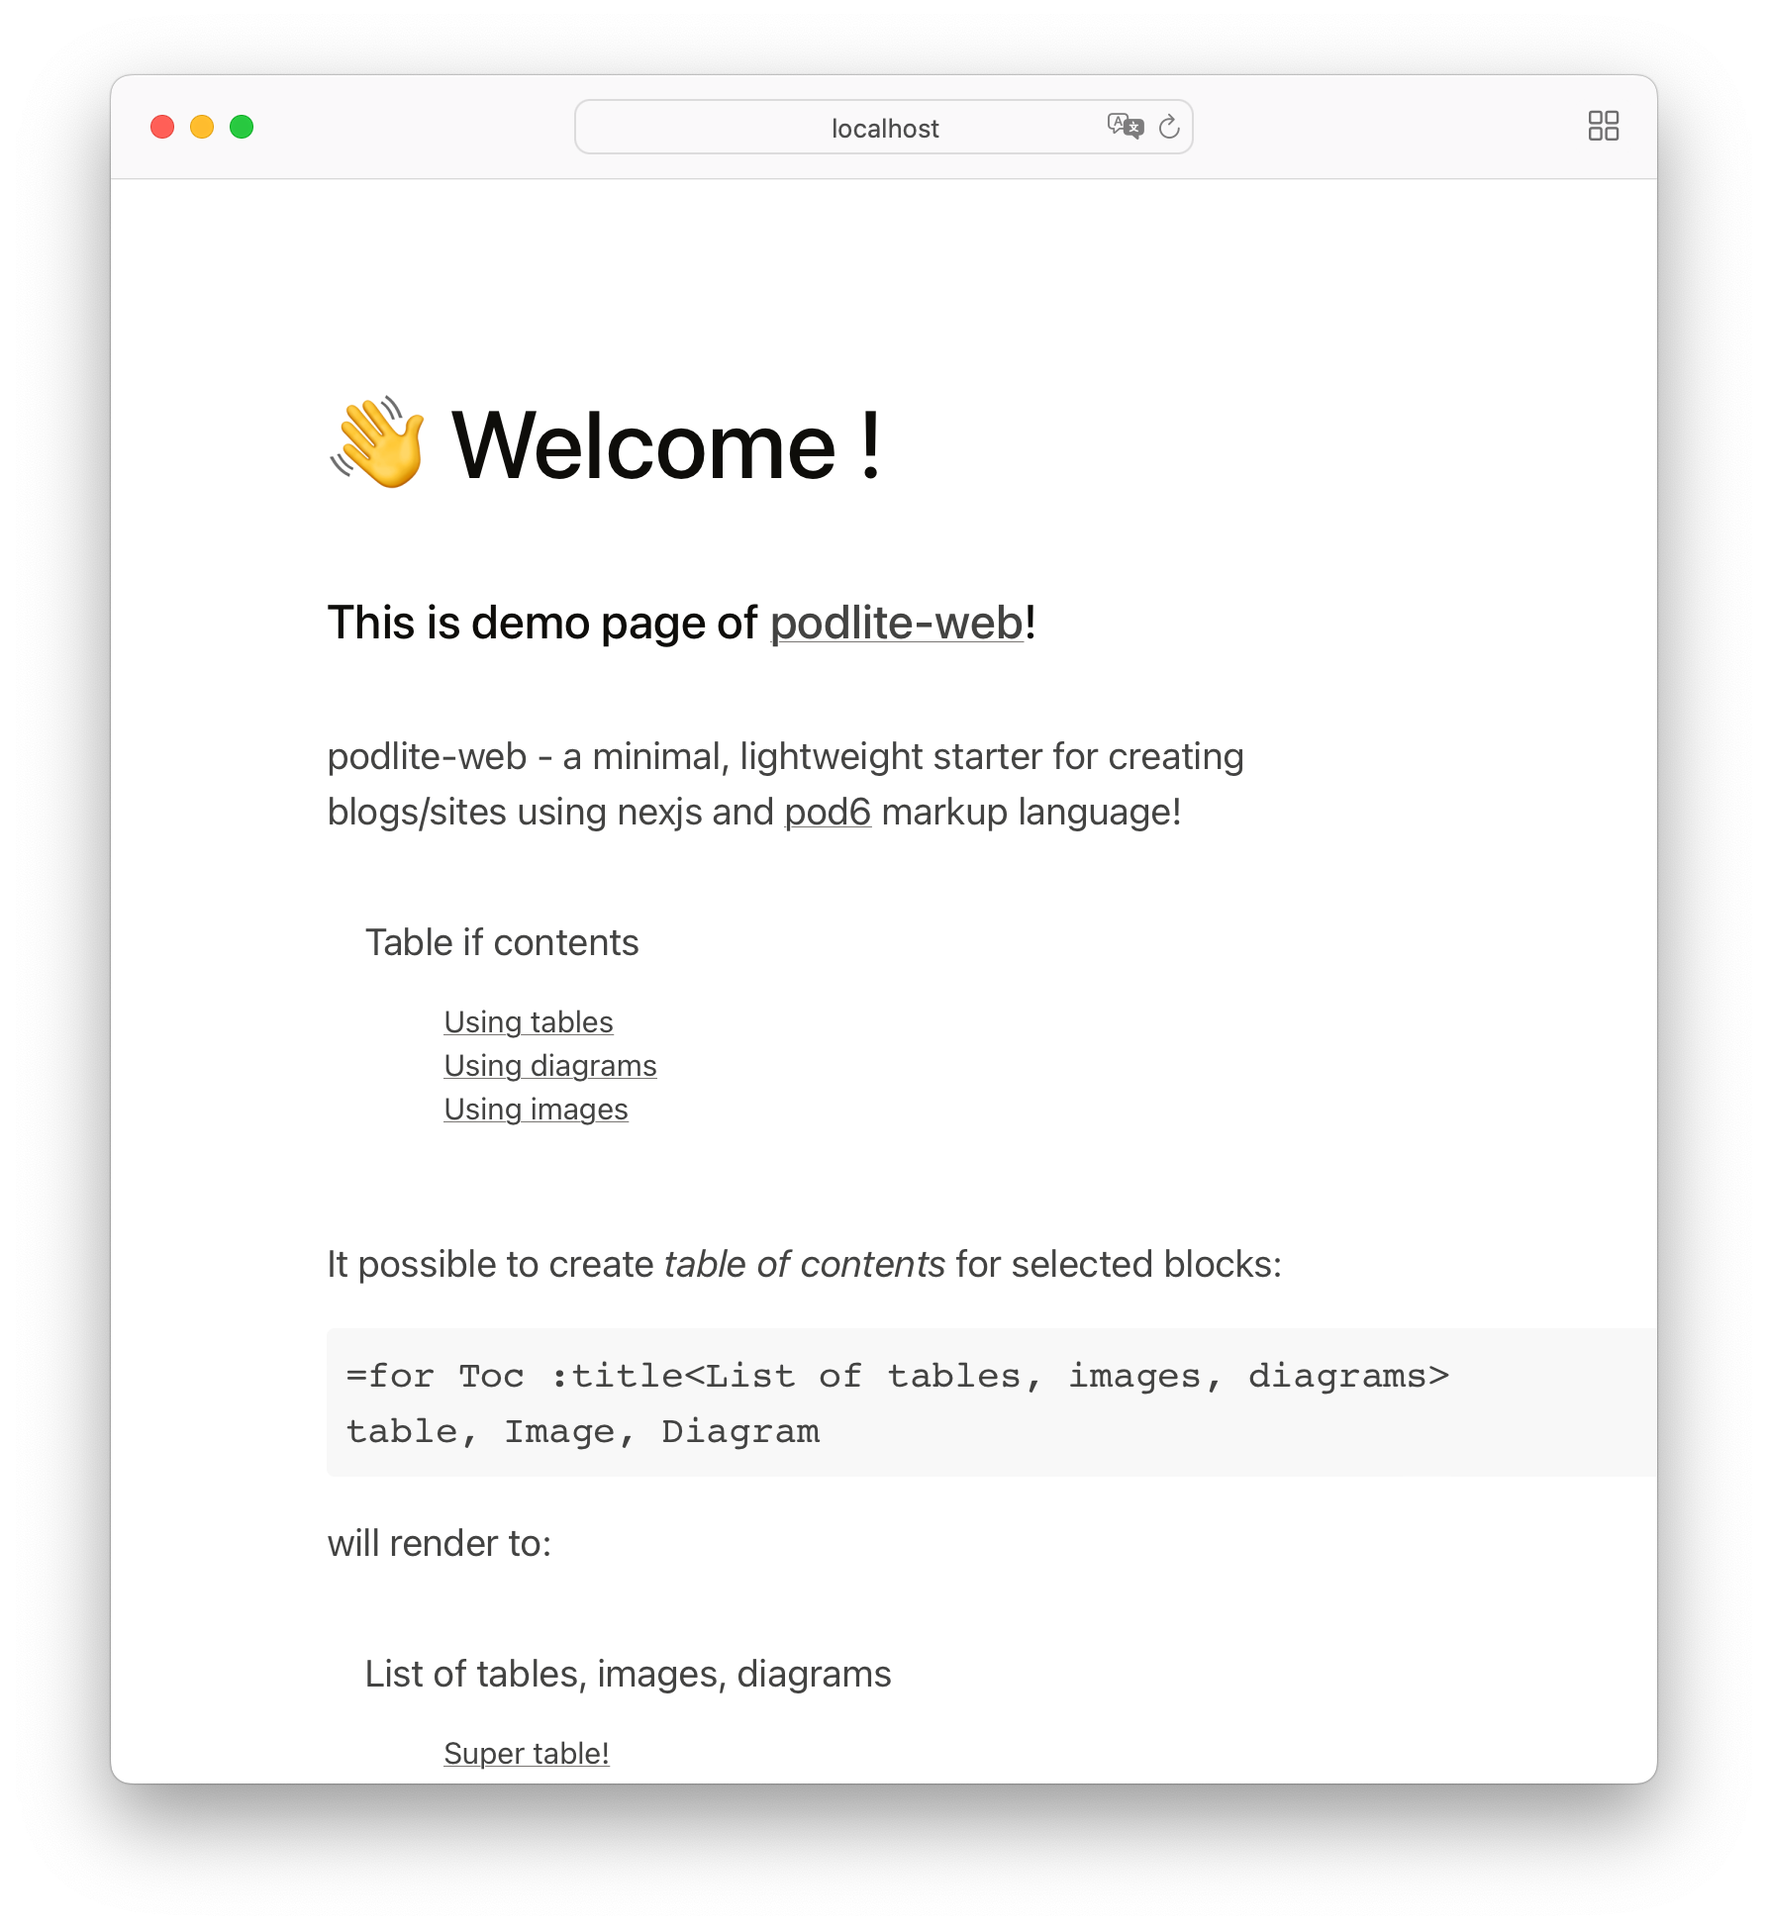
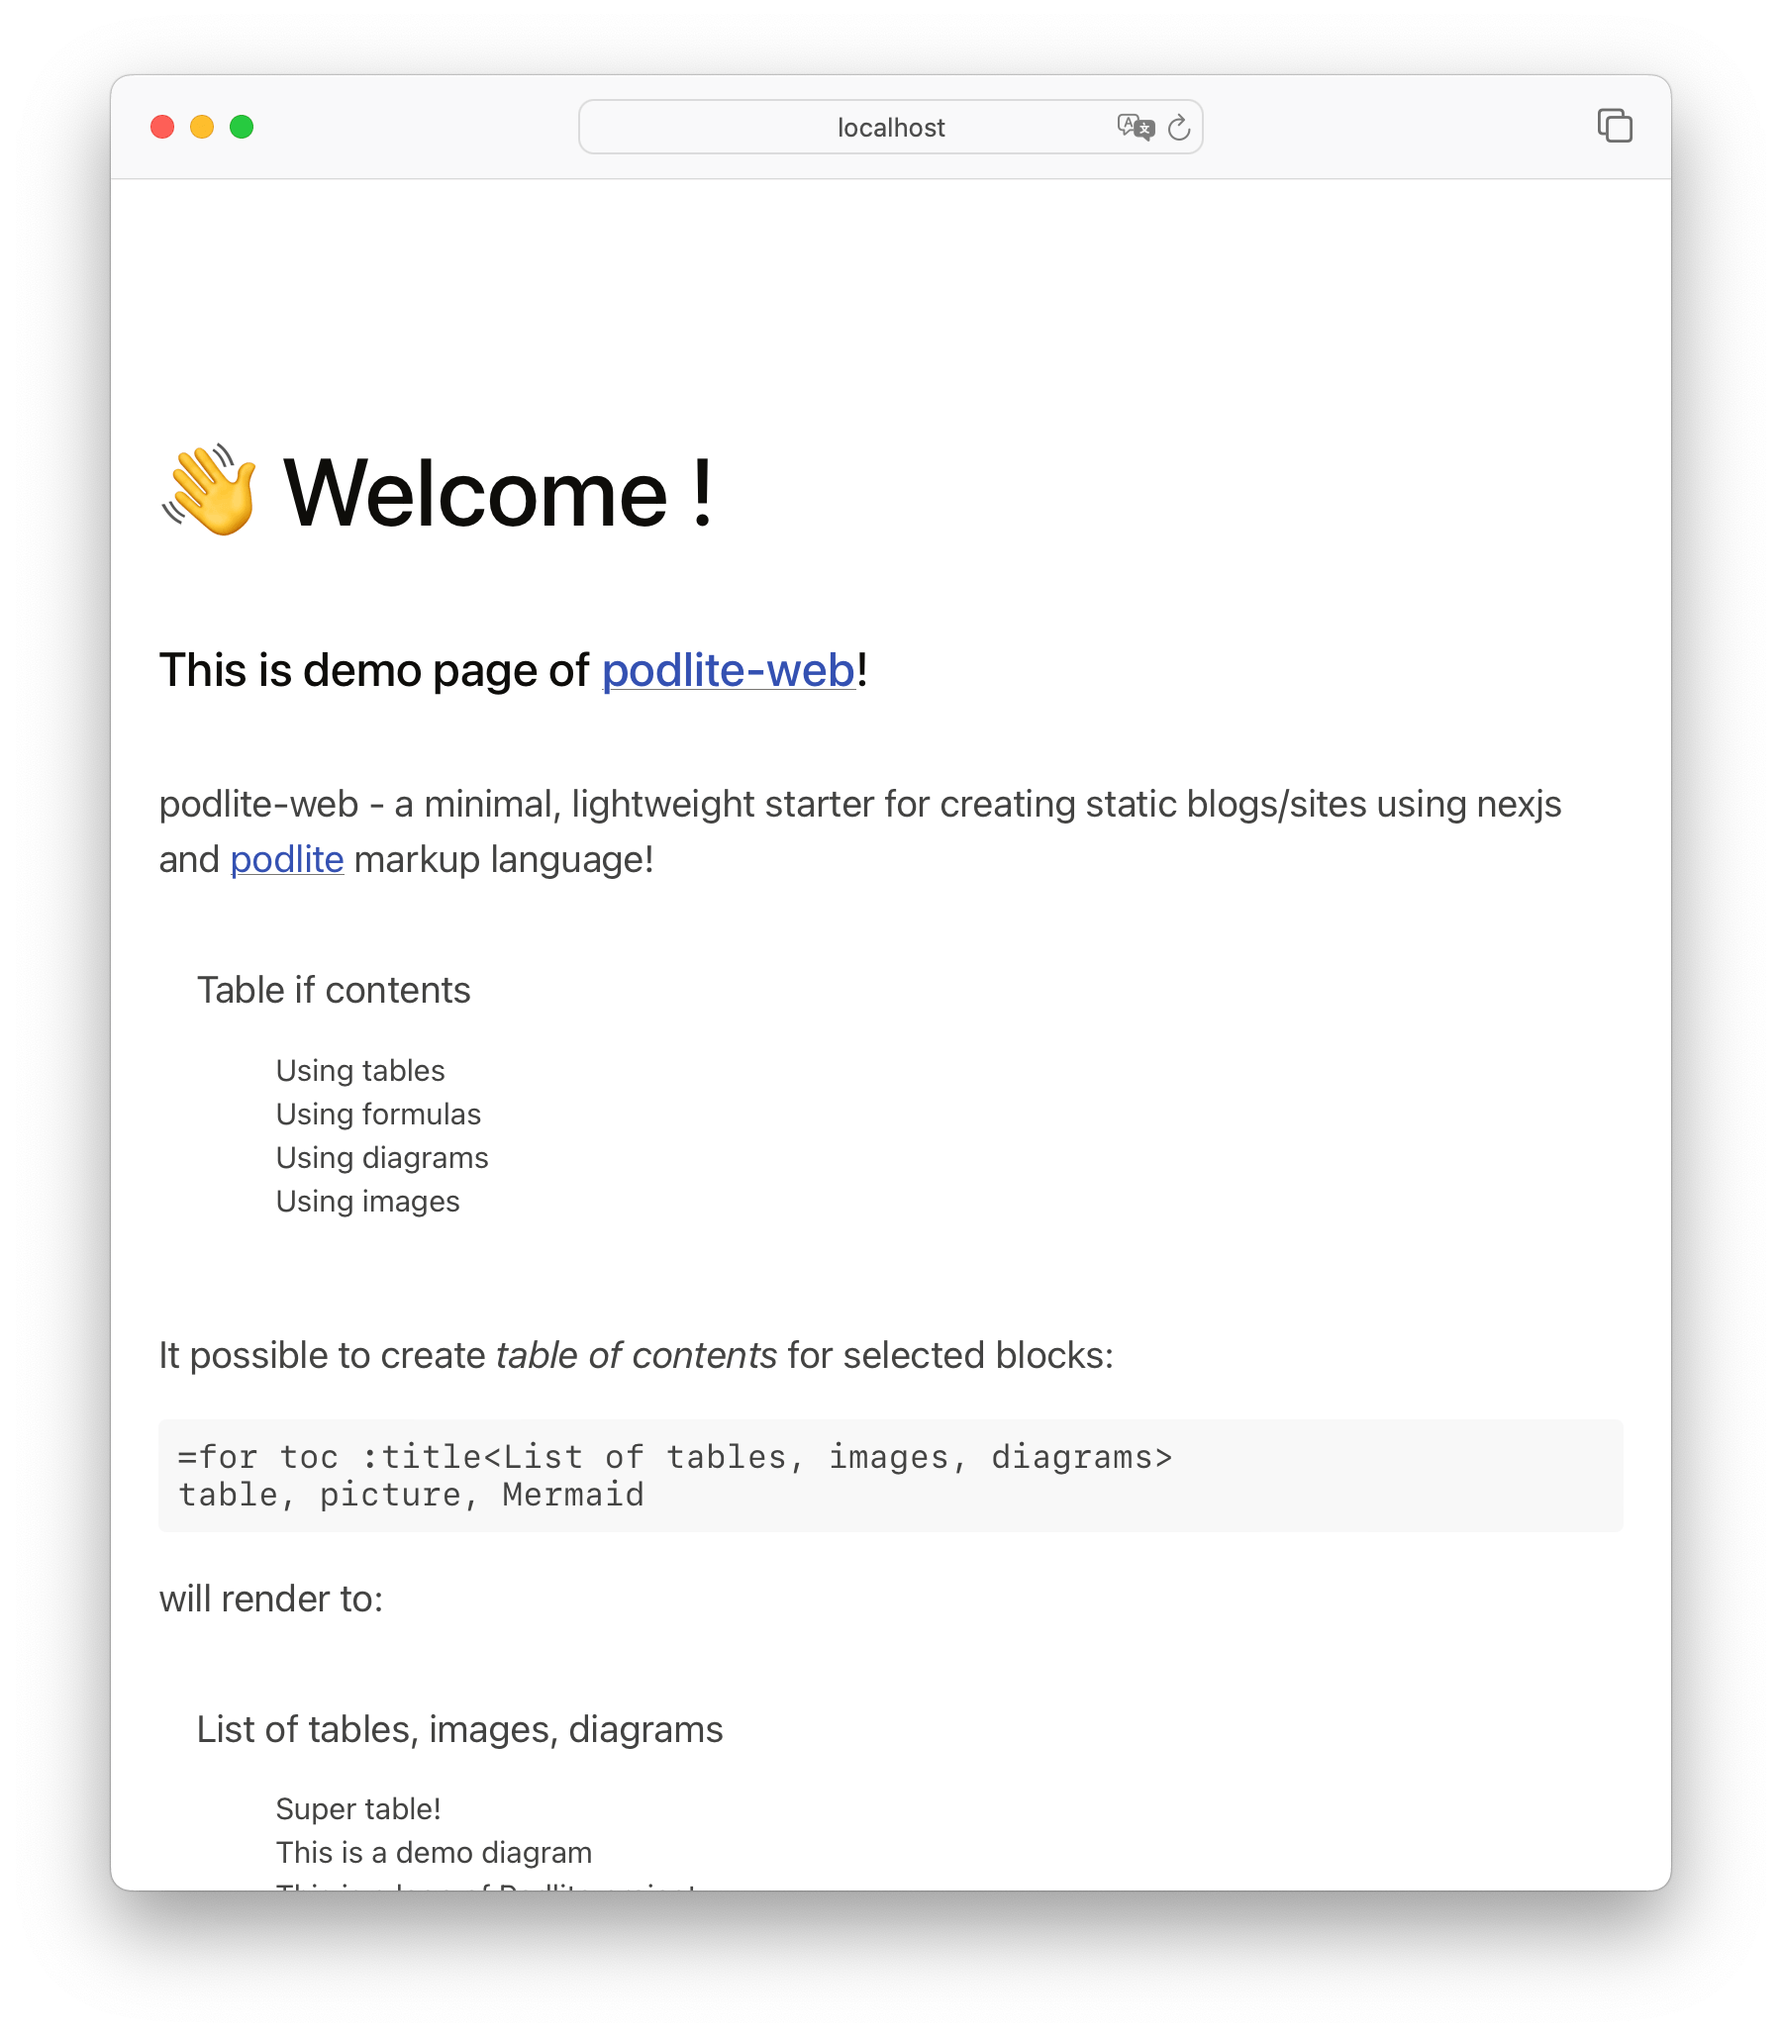
update deps; new ver

diff --git a/src/styles/default.css b/src/styles/default.css
@@ -1,3 +1,4 @@
 @import './pod6.css';
 @import './screen.css';
 @import './global.css';
+@import 'node_modules/@podlite/formula/lib/default.css';
